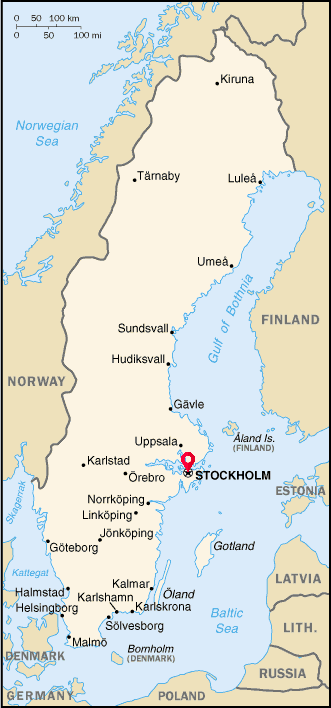
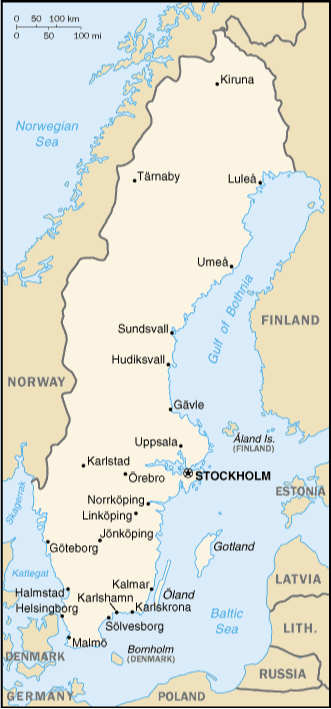
Fortsatt jobbat

diff --git a/prog2-inlupp-template/gui/src/main/java/se/su/inlupp/AppGammal.java b/prog2-inlupp-template/gui/src/main/java/se/su/inlupp/AppGammal.java
@@ -1,5 +1,6 @@
 package se.su.inlupp;
 
+import java.awt.Desktop.Action;
 import java.awt.image.BufferedImage;
 import java.io.File;
 import java.io.FileInputStream;
@@ -7,17 +8,12 @@ import java.io.FileOutputStream;
 import java.io.IOException;
 import java.io.ObjectInputStream;
 import java.io.ObjectOutputStream;
-import java.io.Serializable;
 import java.util.List;
 import java.util.Optional;
 
 import javax.imageio.ImageIO;
 
-import org.w3c.dom.events.Event;
-
 import javafx.application.Application;
-import javafx.collections.FXCollections;
-import javafx.collections.ObservableList;
 import javafx.embed.swing.SwingFXUtils;
 import javafx.event.ActionEvent;
 import javafx.event.EventHandler;
@@ -31,9 +27,7 @@ import javafx.scene.control.ButtonType;
 import javafx.scene.control.Label;
 import javafx.scene.control.Menu;
 import javafx.scene.control.MenuBar;
-import javafx.scene.control.MenuButton;
 import javafx.scene.control.MenuItem;
-import javafx.scene.control.TextField;
 import javafx.scene.control.Alert.AlertType;
 import javafx.scene.image.Image;
 import javafx.scene.image.ImageView;
@@ -47,8 +41,11 @@ import javafx.scene.text.TextAlignment;
 import javafx.stage.FileChooser;
 import javafx.stage.Stage;
 import javafx.stage.WindowEvent;
+import se.su.inlupp.App.OpenHandler;
+import se.su.inlupp.App.SaveHandler;
+import se.su.inlupp.App.SaveImageHandler;
 
-public class App extends Application {
+public class AppGammal extends Application {
 
     private Stage stage;
     private Pane center;
@@ -59,11 +56,7 @@ public class App extends Application {
     private AddNodeHandler addNodeHandler;
     private FileChooser fileChooser = new FileChooser();
     private boolean hasUnsavedChanges = false;
-    private TextField newNodeName = new TextField();
-    private Button saveNewNode = new Button("Spara nod");
-    private double newNodeX;
-    private double newNodeY;
-    private ObservableList<String> obsList = FXCollections.observableArrayList();
+
     private Graph<City> listGraph = new ListGraph<City>();
 
     @Override
@@ -83,12 +76,8 @@ public class App extends Application {
         MenuItem open = new MenuItem("Öppna...");
         OpenHandler openHandler = new OpenHandler();
         open.setOnAction(openHandler);
-        Menu save = new Menu("Spara...");
-        MenuItem saveGraph = new MenuItem("Projekt");
-        MenuItem saveImage = new MenuItem("Bild");
-        save.getItems().addAll(saveGraph, saveImage);
-        saveGraph.setOnAction(new SaveHandler());
-        saveImage.setOnAction(new SaveImageHandler());
+        MenuItem save = new MenuItem("Spara...");
+        save.setOnAction(new SaveHandler());
         MenuItem exit = new MenuItem("Avsluta");
         exit.setOnAction(new CloseWindowHandler());
         file.getItems().addAll(neew, open, save, exit);
@@ -108,38 +97,42 @@ public class App extends Application {
         root.setTop(top);
 
         VBox right = new VBox(10);
-        Label editLabel = new Label("Redigera");
-        editLabel.setStyle("-fx-font: 22 'Copperplate'; -fx-font-weight: bold;");
-        addNodeButton = new Button("Lägg till stad");
-        addNodeHandler = new AddNodeHandler();
-        addNodeButton.setOnAction(addNodeHandler);
-        Label newNodeNameLabel = new Label("Ange stadens namn");
-        saveNewNode.setDisable(true);
-
+        Label menuLabel = new Label("Meny");
+        menuLabel.setStyle("-fx-font: 22 'Copperplate'; -fx-font-weight: bold;");
+        Button newButton = new Button("Ny");
         Button openButton = new Button("Öppna");
         openButton.setOnAction(openHandler);
         saveButton = new Button("Spara karta");
         saveButton.setOnAction(new SaveImageHandler());
         Button exitButton = new Button("Avsluta");
-        List<Button> rightButtons = List.of(addNodeButton, openButton, saveButton, exitButton);
+        Button algorithmButton = new Button("Välj\nSökalgoritm");
+        List<Button> rightButtons = List.of(newButton, openButton, saveButton, exitButton, algorithmButton);
         for (Button button : rightButtons) {
-            button.setPrefWidth(110);
+            button.setPrefWidth(90);
             button.setTextAlignment(TextAlignment.CENTER);
         }
-
-        MenuButton algorithmButton = new MenuButton("Välj\nSökalgoritm");
-        algorithmButton.setPrefWidth(110);
-        //algorithmButton.setTextAlignment(TextAlignment.CENTER);
-        MenuItem dfs = new MenuItem("Djupet först-sökning");
-        MenuItem bfs = new MenuItem("Bredden först-sökning");
-        MenuItem dijkstra = new MenuItem("Dijkstras algoritm");
-        algorithmButton.getItems().addAll(dfs, bfs, dijkstra);
-
-        right.getChildren().addAll(editLabel, addNodeButton, newNodeNameLabel, newNodeName, saveNewNode, openButton, saveButton, exitButton, algorithmButton);
+        right.getChildren().addAll(menuLabel, newButton, openButton, saveButton, exitButton, algorithmButton);
         right.setAlignment(Pos.TOP_CENTER);
         right.setPadding(femPx);
         right.setStyle(font);
         root.setRight(right);
+
+        HBox bottom = new HBox(10);
+        addNodeButton = new Button("Lägg till nod");
+        addNodeHandler = new AddNodeHandler();
+        addNodeButton.setOnAction(addNodeHandler);
+        Button taBortNod = new Button("Ta bort nod");
+        Button läggTillKant = new Button("Lägg till kant");
+        Button taBortKant = new Button("Ta bort kant");
+        /*List<Button> bottomButtons = List.of(läggTillNod, taBortNod, läggTillKant, taBortKant);
+        for (Button button : bottomButtons) {
+            button.setOnMouseClicked(new ClickHandler());
+        }*/
+        bottom.getChildren().addAll(addNodeButton, taBortNod, läggTillKant, taBortKant);
+        bottom.setAlignment(Pos.CENTER);
+        bottom.setPadding(femPx);
+        bottom.setStyle(font);
+        root.setBottom(bottom);
 
         Scene scene = new Scene(root);
         stage.setTitle("Reseplanerare");
@@ -167,42 +160,26 @@ public class App extends Application {
             }
         }
     }
-
-    class SaveNewNodeHandler implements EventHandler<ActionEvent> {
-        public void handle(ActionEvent event) {
-            if(newNodeName.getText().trim().isEmpty()) { 
-                Alert alert = new Alert(AlertType.WARNING, "Du måste ange stad");
-                event.consume();
-            } else {
-                listGraph.add(new City(newNodeName.getText(), newNodeX, newNodeY));
-                center.setOnMouseClicked(null);
-                center.setCursor(Cursor.DEFAULT);
-                addNodeButton.setDisable(false);
-            }
-        }
-    }
-
     class PutNodeHandler implements EventHandler<MouseEvent> {
         public void handle(MouseEvent event) {
-            newNodeX = event.getX();
-            newNodeY = event.getY();
+            double x = event.getX();
+            double y = event.getY();
 
-            Destination needle = new Destination(newNodeX, newNodeY);
+            Destination needle = new Destination(x, y);
             center.getChildren().add(needle);
-            
+
             hasUnsavedChanges = true;
-            saveNewNode.setDisable(false);
-            saveNewNode.setOnAction(new SaveNewNodeHandler());
-            
-            /*center.setOnMouseClicked(null);
+
+            //Återställ allt när needle är tillagd i center
+            center.setOnMouseClicked(null);
             center.setCursor(Cursor.DEFAULT);
-            addNodeButton.setDisable(false);*/
+            addNodeButton.setDisable(false);    
         }
     }
 
     class AddNodeHandler implements EventHandler<ActionEvent> {
         public void handle(ActionEvent event) {
-            PutNodeHandler putNodeHandler = new PutNodeHandler();
+            putNodeHandler = new PutNodeHandler();
             center.setOnMouseClicked(putNodeHandler);
             center.setCursor(Cursor.CROSSHAIR);
             addNodeButton.setDisable(true);
@@ -280,24 +257,18 @@ public class App extends Application {
         public void handle(ActionEvent event) {
             fileChooser.setInitialDirectory(new File("."));
             File fileName = fileChooser.showOpenDialog(stage);
-            try {
+            /*try {
                 ObjectInputStream inputStream = new ObjectInputStream(new FileInputStream(fileName));
-                listGraph = (Graph<City>) inputStream.readObject();
-                inputStream.close();
+                dataMap = (Map) inputStream.readObject();
+                ois.close();
                 obsList.clear();
-                obsList.addAll(listGraph.getNodes().toString());
+                obsList.addAll(dataMap.keySet());
             } catch (IOException e) {
                 Alert alert = new Alert(AlertType.ERROR, "Filen kunde inte hittas");
-                alert.showAndWait();
-                e.printStackTrace();
-            } catch (ClassNotFoundException e) {
-                e.printStackTrace();
-            }
-            hasUnsavedChanges = false;
+            }*/
         }
     }
 
-    public record City(String name, double x, double y) implements Serializable {}
 
     public static void main( String[] args ) {
         launch(args);

diff --git a/prog2-inlupp-template/backend/src/main/java/se/su/inlupp/PathFinderTest.java b/prog2-inlupp-template/backend/src/main/java/se/su/inlupp/PathFinderTest.java
@@ -4,15 +4,15 @@ import java.util.List;
 
 public class PathFinderTest {
     public static void main(String[] args) {
-        ListGraph<City> swedenGraph = new ListGraph<>();
-        DijkstraPathFinder<City> pathFinder = new DijkstraPathFinder<>();
+        ListGraph<CityClass> swedenGraph = new ListGraph<>();
+        DijkstraPathFinder<CityClass> pathFinder = new DijkstraPathFinder<>();
 
         // 1. Skapa städer
-        City stockholm = new City("Stockholm");
-        City uppsala = new City("Uppsala");
-        City enköping = new City("Enköping");
-        City västerås = new City("Västerås");
-        City örebro = new City("Örebro");
+        CityClass stockholm = new CityClass("Stockholm");
+        CityClass uppsala = new CityClass("Uppsala");
+        CityClass enköping = new CityClass("Enköping");
+        CityClass västerås = new CityClass("Västerås");
+        CityClass örebro = new CityClass("Örebro");
 
         swedenGraph.add(stockholm);
         swedenGraph.add(uppsala);
@@ -31,15 +31,15 @@ public class PathFinderTest {
         // 3. Anropa findPath
         System.out.println("Söker kortaste vägen med Dijkstra...");
 
-        Path<City> pathResult = pathFinder.findPath(swedenGraph, stockholm, örebro);
+        Path<CityClass> pathResult = pathFinder.findPath(swedenGraph, stockholm, örebro);
 
         // 4. Validera och beräkna vikt manuellt
         if (pathResult != null) {
-            List<Edge<City>> edges = pathResult.getEdges(); 
+            List<Edge<CityClass>> edges = pathResult.getEdges(); 
             int totalWeight = 0;
             
             System.out.println("Väg hittad från " + stockholm + " till " + örebro + ":");
-            for (Edge<City> edge : edges) {
+            for (Edge<CityClass> edge : edges) {
                 System.out.println("- " + edge.getName() + " -> " + edge.getDestination() + " (" + edge.getWeight() + ")");
                 totalWeight += edge.getWeight(); // Summera vikten här istället
             }
@@ -57,16 +57,16 @@ public class PathFinderTest {
             System.out.println("RESULTAT: FAIL! Ingen väg hittades.");
         }
        // --- NYTT TESTFALL: Norrlandsresan ---
-        ListGraph<City> northGraph = new ListGraph<>();
-        DijkstraPathFinder<City> finder = new DijkstraPathFinder<>();
+        ListGraph<CityClass> northGraph = new ListGraph<>();
+        DijkstraPathFinder<CityClass> finder = new DijkstraPathFinder<>();
 
         // 1. Skapa städer
-        City gavle = new City("Gävle");
-        City sundsvall = new City("Sundsvall");
-        City lulea = new City("Luleå");
-        City ostersund = new City("Östersund");
-        City umea = new City("Umeå");
-        City kiruna = new City("Kiruna"); // Blindgränd
+        CityClass gavle = new CityClass("Gävle");
+        CityClass sundsvall = new CityClass("Sundsvall");
+        CityClass lulea = new CityClass("Luleå");
+        CityClass ostersund = new CityClass("Östersund");
+        CityClass umea = new CityClass("Umeå");
+        CityClass kiruna = new CityClass("Kiruna"); // Blindgränd
 
         northGraph.add(gavle);
         northGraph.add(sundsvall);
@@ -92,12 +92,12 @@ public class PathFinderTest {
 
         // 3. Kör sökningen
         System.out.println("\n--- Test 2: Gävle till Luleå ---");
-        Path<City> northPath = finder.findPath(northGraph, gavle, lulea);
+        Path<CityClass> northPath = finder.findPath(northGraph, gavle, lulea);
         
         if (northPath != null) {
-            List<Edge<City>> edges = northPath.getEdges();
+            List<Edge<CityClass>> edges = northPath.getEdges();
             int weight = 0;
-            for (Edge<City> e : edges) {
+            for (Edge<CityClass> e : edges) {
                 System.out.println("Från nod till " + e.getDestination() + " via " + e.getName() + " (" + e.getWeight() + ")");
                 weight += e.getWeight();
             }
@@ -113,17 +113,17 @@ public class PathFinderTest {
         }
 
         ///////////////////////////////////////////////////////////
-        ListGraph<City> testGraph = new ListGraph<>();
-        DijkstraPathFinder<City> lowestWeightFinder = new DijkstraPathFinder<>();
+        ListGraph<CityClass> testGraph = new ListGraph<>();
+        DijkstraPathFinder<CityClass> lowestWeightFinder = new DijkstraPathFinder<>();
 
         // 1. Skapa städer
-        City A = new City("A");
-        City B = new City("B");
-        City C = new City("C");
-        City D = new City("D");
-        City E = new City("E");
-        City F = new City("F");
-        City G = new City("G");
+        CityClass A = new CityClass("A");
+        CityClass B = new CityClass("B");
+        CityClass C = new CityClass("C");
+        CityClass D = new CityClass("D");
+        CityClass E = new CityClass("E");
+        CityClass F = new CityClass("F");
+        CityClass G = new CityClass("G");
 
         testGraph.add(A);
         testGraph.add(B);
@@ -147,7 +147,7 @@ public class PathFinderTest {
 
         // System.out.println("\nVÄGEN MED LÄGST VIKT: ");
 
-        Path<City> testResult = lowestWeightFinder.findPath(testGraph, A, C);
+        Path<CityClass> testResult = lowestWeightFinder.findPath(testGraph, A, C);
         System.out.println("Till C: " + testResult.getTotalWeight());
         testResult = lowestWeightFinder.findPath(testGraph, A, E);
         System.out.println("Till E: " + testResult.getTotalWeight());

diff --git a/prog2-inlupp-template/backend/src/main/java/se/su/inlupp/CityClass.java b/prog2-inlupp-template/backend/src/main/java/se/su/inlupp/CityClass.java
@@ -1,9 +1,17 @@
 package se.su.inlupp;
 
-public class City {
+public class CityClass {
   private String name;
+  private double x;
+  private double y;
 
-  public City(String name) {
+  public CityClass(String name, double x, double y) {
+    this.name = name;
+    this.x = x;
+    this.y = y;
+  }
+
+  public CityClass(String name) {
     this.name = name;
   }
 
@@ -11,9 +19,15 @@ public class City {
     return this.name;
   }
 
+  public double getX() {
+    return this.x;
+  }
+
+  public double getY() {}
+
   @Override
   public boolean equals(Object obj) {
-    if (obj instanceof City city) {
+    if (obj instanceof CityClass city) {
       return name.equals(city.name);
     }
     return false;

diff --git a/prog2-inlupp-template/backend/src/main/java/se/su/inlupp/ListGraph.java b/prog2-inlupp-template/backend/src/main/java/se/su/inlupp/ListGraph.java
@@ -1,5 +1,6 @@
 package se.su.inlupp;
 
+import java.io.Serializable;
 import java.util.Collection;
 import java.util.HashMap;
 import java.util.HashSet;
@@ -8,7 +9,7 @@ import java.util.Map;
 import java.util.NoSuchElementException;
 import java.util.Set;
 
-public class ListGraph<T> implements Graph<T> {
+public class ListGraph<T> implements Graph<T>, Serializable {
 
   private final Map<T, Set<Edge<T>>> graph = new HashMap<>();
 
